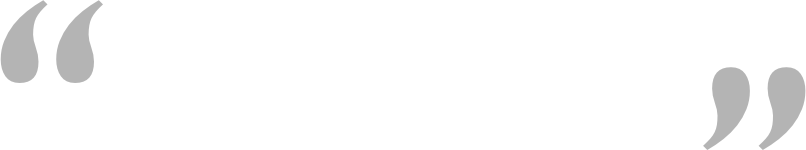
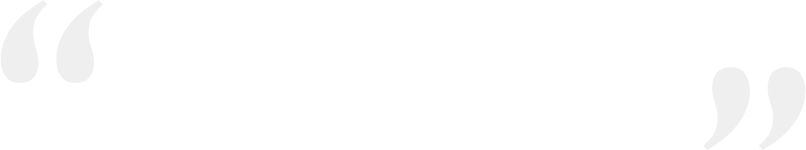
quote background centered and lightened

Changed region(s): [[0.8685, 0.4533, 1.0, 1.0], [0.0, 0.0, 0.1241, 0.56]]

diff --git a/src/assets/css/style.css b/src/assets/css/style.css
@@ -1721,9 +1721,10 @@ p {
     font-family: 'Times New Roman', Times, serif;
     font-style: italic;
     font-size: 20px;
-    margin: 100px 0 100px 0;
+    margin: 20px 0 20px 0;
     color: #9f9f9f;
-    background: url("../images/pricing/quotes.png") no-repeat;
+    background: url("../images/pricing/quotes.png") no-repeat center;
+    padding: 65px 0;
 }
 
 /* ==========================================================================
